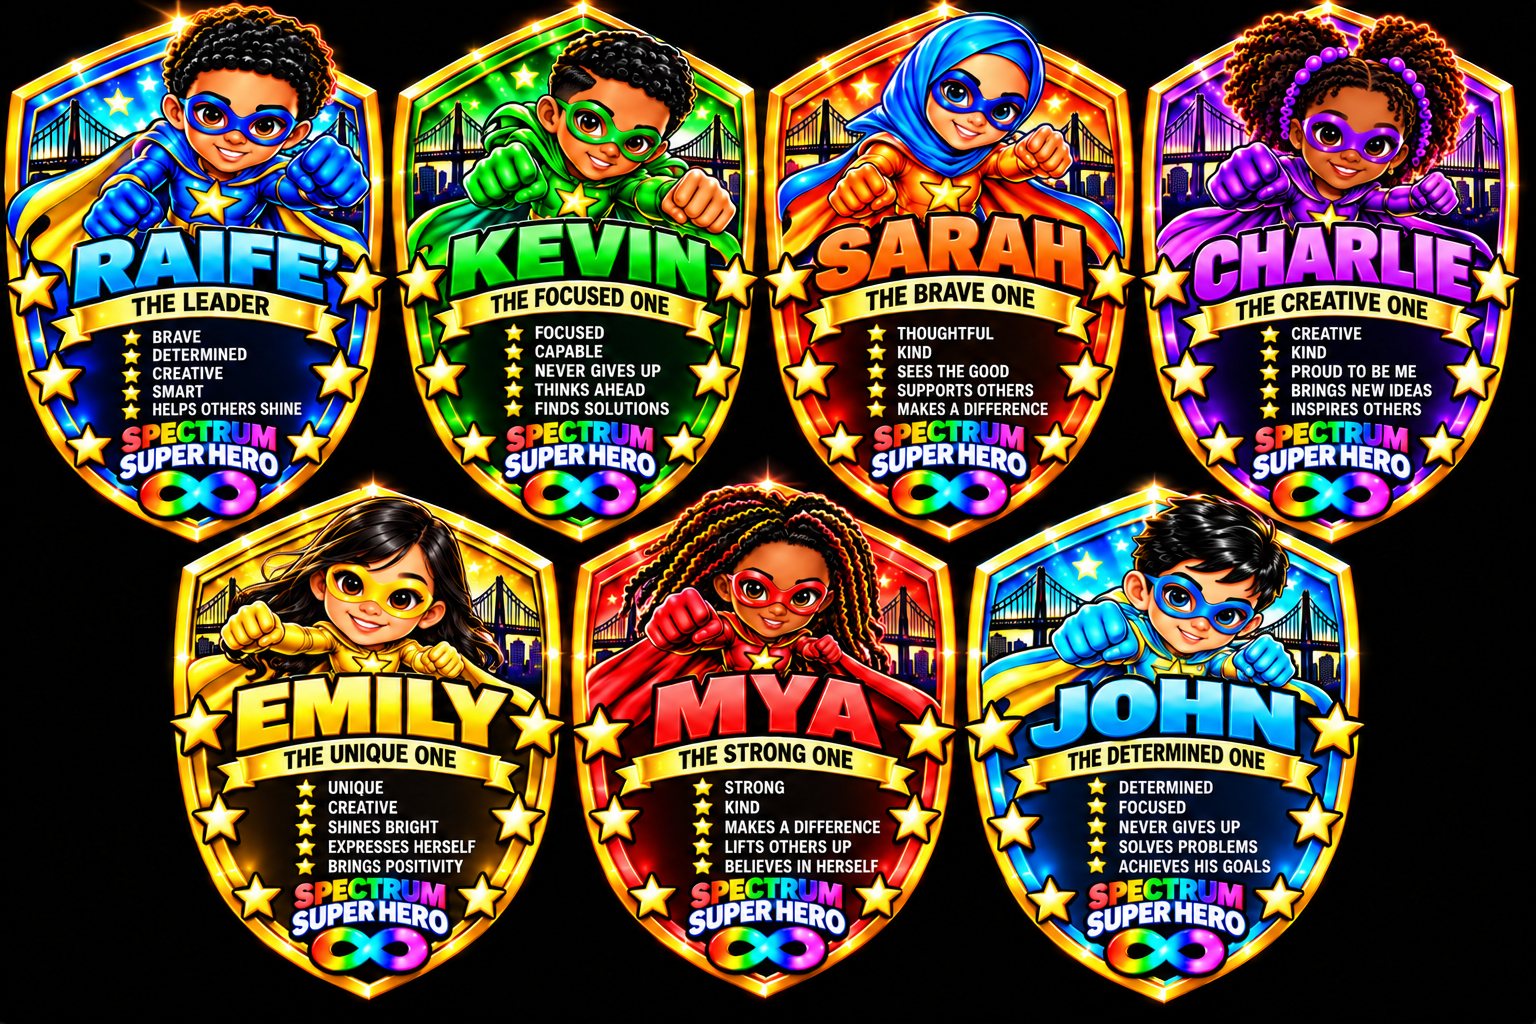
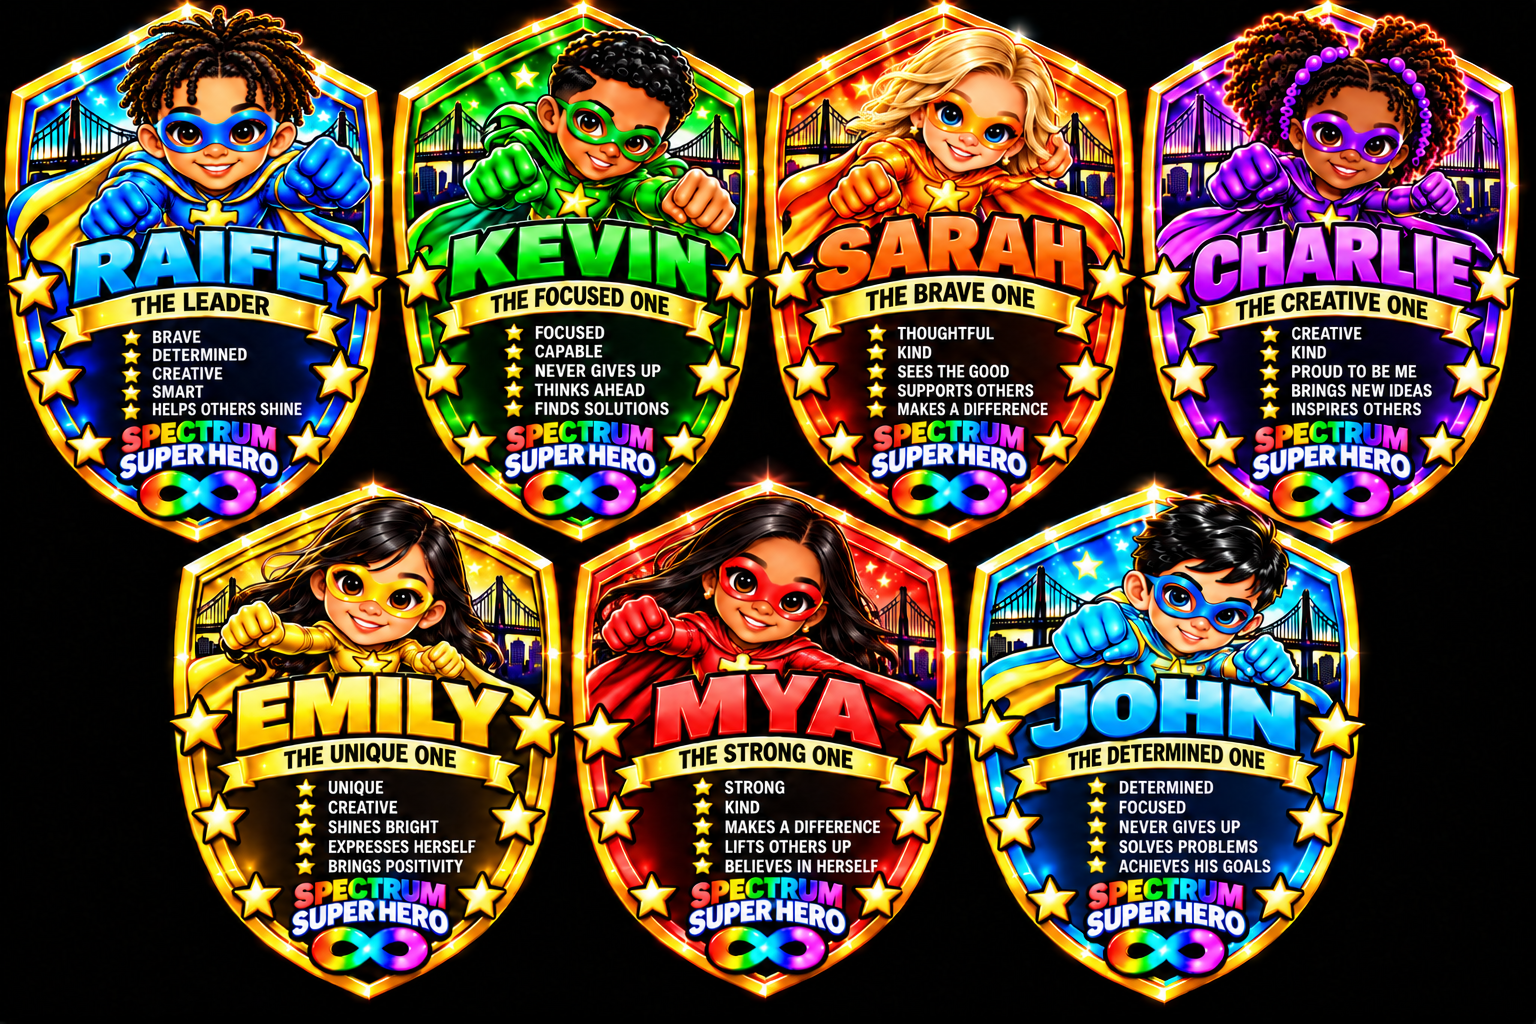
Update Raife, Sarah, and Mya badge portraits

diff --git a/service-worker.js b/service-worker.js
@@ -1,4 +1,5 @@
-const CACHE_NAME = 'spectrum-super-hero-shell-v4';
+Warning: fs was declared with const; use let for reassignable variables.
+const CACHE_NAME = 'spectrum-super-hero-shell-v5';
 const APP_SHELL = [
   './',
   './index.html',
